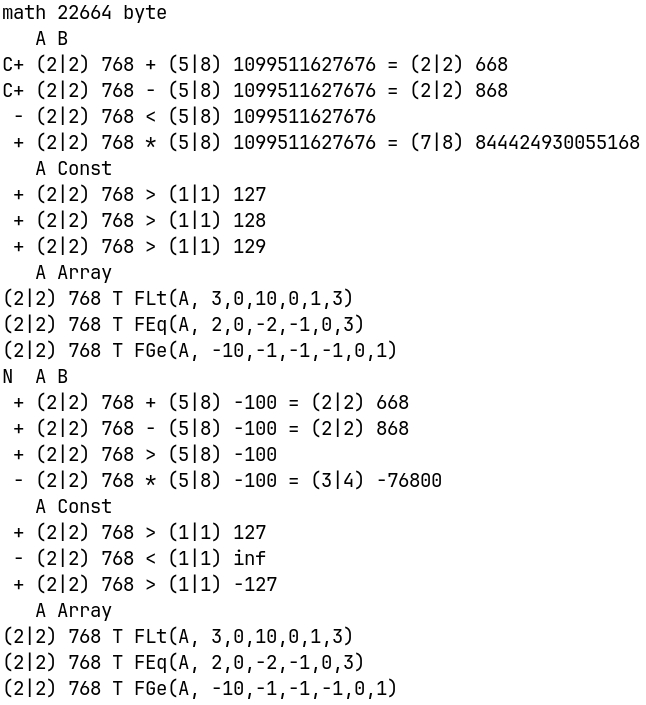
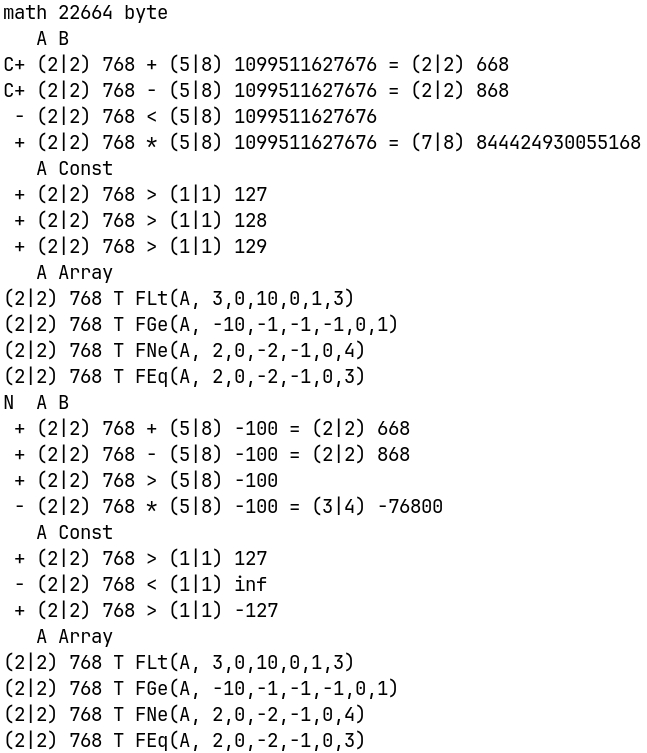
v61.3

Changed region(s): [[0.0, 0.0, 0.9907, 0.9986], [0.3715, 0.5617, 0.6811, 0.6865], [0.0, 0.7489, 0.031, 0.7801]]

diff --git a/math.c b/math.c
@@ -149,7 +149,10 @@ void FMUL(an r, an a, anu l, an b) { Mat.N = l; Mat.r = r; Mat.a = a; Mat.b = b;
   Mat.l = Mat.V ? 0:Mat.l; Mat.i = Mat.l; while(Mat.i--) *Mat.r++ = 0; *Mat.r = Mat.N & 128; }
 
 void FDIV(an r, an e, an a, anu l, an b) { FTST(a, l, b); Mat.r = r; Mat.e = e;
-  if (((Mat.t = (!(Mat.i | *Mat.ae)) | ((!(Mat.j | *Mat.be)) << 1)) | Mat.k | Mat.TF | Mat.TN)) { }
+  if ((Mat.t = (!(Mat.i | *Mat.ae)) | ((!(Mat.j | *Mat.be)) << 1)) | Mat.k) { }
+  if (Mat.TF) { *Mat.r = 1; *Mat.e = 0; Mat.F = 0; Mat.N = 0; Mat.Fe = 1; Mat.Ne = 0;
+    if (Mat.V) { Mat.l = 0; Mat.le = 0; return; } Mat.le = Mat.lb; Mat.i = Mat.l;
+    while(Mat.i--) { *++Mat.r = 0; } Mat.i = Mat.le; while(Mat.i--) { *++Mat.e = 0; } return; }
   }
 
 void FCTST(an a, anu l, an c) { if (l--) return FTST(a, l, c); return FTST(a, Mat.lb, Mat.b); }
@@ -163,6 +166,9 @@ anu FCLT(an a, anu l, an c) { if (l--) { Mat.e = c; Mat.x = 1; do { Mat.y = (Mat
       Mat.y = (Mat.l > l) ? l:Mat.l; FTST(a, Mat.y, Mat.e); Mat.e += 1 + Mat.y; l -= Mat.y;
       Mat.x = Mat.x || !(Mat.TN | Mat.TF); } while(l--); return Mat.x; }
   FTST(a, Mat.lb, Mat.b); return Mat.TN; }
+anu FCNE(an a, anu l, an c) { if (l--) { Mat.e = c; Mat.x = 0; do { Mat.y = (Mat.l > l) ? l:Mat.l;
+    FTST(a, Mat.y, Mat.e); Mat.e += 1 + Mat.y; l -= Mat.y; Mat.x = Mat.x || Mat.TF; } while(l-- && !Mat.x);
+  return !Mat.x; } FTST(a, Mat.lb, Mat.b); return !Mat.TF; }
 anu FCEQ(an a, anu l, an c) { if (l--) { Mat.e = c; do { Mat.y = (Mat.l > l) ? l:Mat.l;
       FTST(a, Mat.y, Mat.e); Mat.e += 1 + Mat.y; l -= Mat.y; } while(l-- && !Mat.TF); return Mat.TF; }
   FTST(a, Mat.lb, Mat.b); return Mat.TF; }

diff --git a/math.h b/math.h
@@ -76,11 +76,13 @@ void FCTST(an a, anu l, an c);                  // a?(an)c[l]{Num} Mat.TF? =:Mat
 #define Flt(x, ...) (Ftst(x, __VA_ARGS__),Mat.TN)               // x < Num               | x < Mat.b
 #define Feq(x, ...) (Ftst(x, __VA_ARGS__),Mat.TF)               // x = Num               | x = Mat.b
 
-anu FCGE(an a, anu l, an c);                    // a ? (an)c[l]{{[Num1,Num2]^k}{>=NumN}} | a >= Mat.b
-anu FCLT(an a, anu l, an c);                    // a ? (an)c[l]{{< NumN}{)Num1,Num2(^k}} | a < Mat.b
+anu FCGE(an a, anu l, an c);                    // a ? (an)c[l]{{[Num1,Num2]^k}{[NumN}}  | a >= Mat.b
+anu FCLT(an a, anu l, an c);                    // a ? (an)c[l]{{)Num1,Num2(^k}{)NumN}}  | a < Mat.b
+anu FCNE(an a, anu l, an c);                    // a != (an)c[l]{Num1;Num2;...NumN}      | a != Mat.b
 anu FCEQ(an a, anu l, an c);                    // a = (an)c[l]{Num1;Num2;...NumN}       | a = Mat.b
-#define FGe(x, ...) FCGE(x, Anu(__VA_ARGS__))           // x ? {[Num1;Num2]^k}{>=NumN}}  | x >= Mat.b
-#define FLt(x, ...) FCLT(x, Anu(__VA_ARGS__))           // x ? {< NumN}{)Num1,Num2(^k}   | x < Mat.b
+#define FGe(x, ...) FCGE(x, Anu(__VA_ARGS__))           // x ? {[Num1;Num2]^k}{[NumN}}   | x >= Mat.b
+#define FLt(x, ...) FCLT(x, Anu(__VA_ARGS__))           // x ? {)Num1,Num2(^k}{)NumN}    | x < Mat.b
+#define FNe(x, ...) FCNE(x, Anu(__VA_ARGS__))                   // x != {Num1...{,NumN}} | x != Mat.b
 #define FEq(x, ...) FCEQ(x, Anu(__VA_ARGS__))                   // x = {Num1...{,NumN}}  | x = Mat.b
 
 void FCADD(an r, an a, anu l, an c);                            // r = a + (an)c[l]{Num} | r = a + Mat.b

diff --git a/main.c b/main.c
@@ -32,8 +32,9 @@ void Show(char s) { Flong(Mat.lb,la); Mat.C = 0; if (s == '+') FAdd(Mat.R, Mat.A
 void Test(void) { Faddr((As)Mat.B); Flong(lb,la); anu t,i = 2; printf("%c%c A B\n", Mat.Nim ? 'N':' ', Mat.V ? 'V':' '); Show('+');
   Show('-'); Show('?'); Show('*'); /*Show('/');*/ printf("   A Const\n"); Show('c'); while(i--) { t = *Mat.b; *Mat.b = ++t; Show('?'); }
   printf("   A Array\n"); Num(la, Mat.A); printf("%c FLt(A, 3,0,10,0,1,3)\n", FLt(Mat.A, 3,0,10,0,1,3) ? 'T':'F');
-  Num(la, Mat.A); printf("%c FEq(A, 2,0,-2,-1,0,3)\n", FEq(Mat.A, 2,0,-2,-1,0,3) ? 'T':'F');
-  Num(la, Mat.A); printf("%c FGe(A, -10,-1,-1,-1,0,1)\n", FGe(Mat.A, -10,-1,-1,-1,0,1) ? 'T':'F'); }
+  Num(la, Mat.A); printf("%c FGe(A, -10,-1,-1,-1,0,1)\n", FGe(Mat.A, -10,-1,-1,-1,0,1) ? 'T':'F');
+  Num(la, Mat.A); printf("%c FNe(A, 2,0,-2,-1,0,4)\n", FNe(Mat.A, 2,0,-2,-1,0,4) ? 'T':'F');
+  Num(la, Mat.A); printf("%c FEq(A, 2,0,-2,-1,0,3)\n", FEq(Mat.A, 2,0,-2,-1,0,3) ? 'T':'F'); }
 
 int main(void) { anu a[m],b[m],e[m],r[m+m]; Faddr((As)b, (As)a, (As)r, (As)e); Fini(NoSign,MatV); la = Fvbe(Mat.A, 3,0);
   lb = Fvle(Mat.B, -100,255,255,255,255); Test(); Fset(Sign,MatV); la = Fmov(la, Mat.A); lb = Fmov(lb, Mat.B); Test(); return 0; }

diff --git a/README.md b/README.md
@@ -25,7 +25,7 @@
 P.s.: Блокировку убрали как только добавил сообщение о ней на главную страницу, длилась минут 20, как я заметил, и принял меры, чтобы сообщить об этом Вам. Это сообщение останется (20.09.2026 ~16.00 +7 UTF) как память, так что буду стараться вопреки невостребованности в России по данной области дабы остальной народ мог этим воспользоваться. Проанализируйте события с момента, как я вернулся в эту сферу (конец января 2026 выложен Products, готовый полностью, затем занялся Fresh в начале февраля 2026), всё это время обновлялся код и было забавно видеть на open.net новости - даже компании серьёзные - их как озарило - так что у меня нет желания и времени следить за соблюдением GPLv3 из России, если заметите нарушение лицензии, то гарантируется взаимовыгодное сотрудничество.
 
 <div align="center">
-  <h1>Результат запуска v61.0</h1>
+  <h1>Результат запуска v61.3</h1>
   
   <picture>
     <source media="(prefers-color-scheme: dark)" srcset="Plus/psb.jpeg">
@@ -95,13 +95,13 @@ typedef struct { anu Nim, V, lb, l, le, C, F, N, Fe, Ne, TF, TN,
 ```
 
 <div align="center">
-  <h2>В состав входит 53 функции:</h2>
+  <h2>В состав входит 55 функции:</h2>
 </div>
 
 - **Инициализация** — 6 функций (4 основные и 2 вспомогательные)
 - **Обработка чисел** — 10 функций (2 зеркалирования 2 копирования 6 из константы в переменную)
 - **Математика** — 16 функций (4 основные и 12 для работы с константой или регистром `Mat.b`)
-- **Сравнение чисел** — 21 функций (15 тривиальных и 6 для работы с диапазонами)
+- **Сравнение чисел** — 23 функций (15 тривиальных и 8 для работы с диапазонами)
 
 <div align="center">
   <h2>Лицензия</h2>
